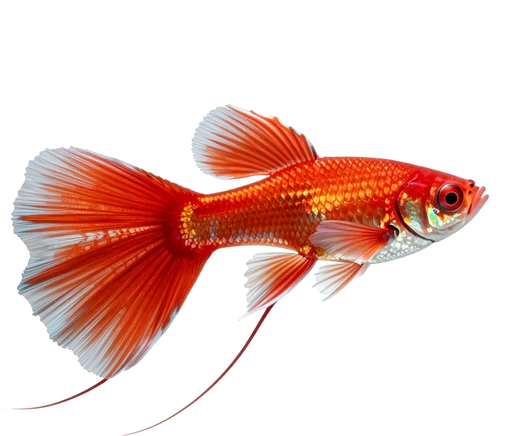
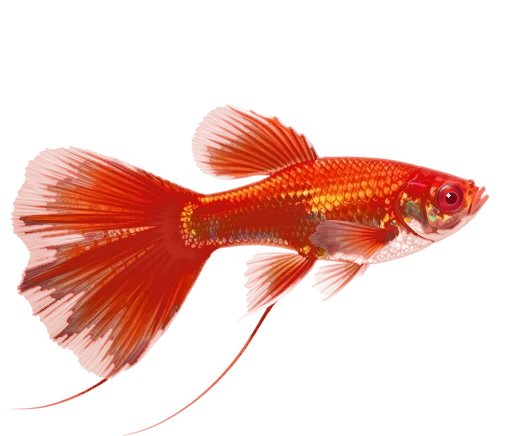
閒置淡出只留任務目標、魚放大 1.2 倍、缸上亮下深、藍草尾／禮服／白子孔雀魚圖文對上（#265、品系對照） (#266)
* 畫面評測第 9 輪：閒置淡出只留任務目標、圖卡換任務先收著、魚放大 1.2 倍、後排魚不像影子、缸上亮下深、通知變窄（#265）

Claude-Session: https://claude.ai/code/session_01KsbS4vLZbfPytVNgNzSz4q

* 孔雀魚品系：禮服改成前銀後黑、白子改成紅眼全紅

- 藍尾禮服四種尾型：前半身銀白、後半身黑色，尾鰭和背鰭改成乾淨的藍
- 全紅白子四種尾型：頭和鰭邊改成紅色、去掉黑色素、眼睛改成寶石紅
- 換色出來的白子（白子紅蛇王等）也把眼睛改成紅色，不跟著主色

Claude-Session: https://claude.ai/code/session_01KsbS4vLZbfPytVNgNzSz4q

* 孔雀魚品系：藍草尾的黑點改到天藍色的尾鰭和背鰭上

Claude-Session: https://claude.ai/code/session_01KsbS4vLZbfPytVNgNzSz4q

---------

diff --git a/src/ui/styles.css b/src/ui/styles.css
@@ -139,7 +139,7 @@ button.todo-item.go:hover { color: var(--accent, #f0c96a); }
   #dock { left: 6px; right: 6px; bottom: calc(env(safe-area-inset-bottom) + 8px); }
   .tools { gap: 2px; padding: 8px 6px 6px; width: 100%; justify-content: space-between; }
   .tool { flex: 1; }
-  .tool .disc { width: 42px; height: 42px; padding: 9px; }
+  .tool .disc { width: 38px; height: 38px; padding: 8px; }
   .tool .lbl { font-size: 11px; letter-spacing: 0.04em; }
 }
 /* 很矮的橫向手機：狀態列、按鈕列都壓扁，留最多空間給水缸 */
@@ -1236,7 +1236,8 @@ body:has(.sheet.full.open) .owner-tip, body:has(.sheet.full.open) .feed-bar { di
 /* 任務卡下面的圖卡：點了缸就收起來，點任務卡再叫出來；窄螢幕最多兩張 */
 .quest-tray.tucked { display: none; }
 .quest-pill.tray-tucked { padding-right: 24px; }
-.quest-pill.tray-tucked::after { content: '▾'; position: absolute; right: 9px; top: 50%; transform: translateY(-50%); color: var(--gold); font-size: 12px; }
+.quest-pill.tray-tucked::after { content: '▾'; position: absolute; right: 9px; top: 50%; transform: translateY(-50%); color: var(--gold); font-size: 12px; animation: tray-nudge 1.4s ease-in-out 3; }
+@keyframes tray-nudge { 50% { transform: translateY(-20%); text-shadow: 0 0 8px rgba(240, 200, 120, 0.9); } }
 @media (max-width: 800px) { .qt-row .qt-card:nth-of-type(3) { display: none; } }
 
 /* 造景時不出魚的事件字幕，免得蓋住「拖到想種的位置」（#254） */
@@ -1244,7 +1245,10 @@ body:has(.sheet.full.open) .owner-tip, body:has(.sheet.full.open) .feed-bar { di
 
 /* 觀賞模式：10 秒沒操作，介面淡到 30%；點兩下缸只留魚 */
 #hud, #dock, .quest-pill, .quest-tray, .tank-label, .dream-holder, .daily-holder, .owner-tip { transition: opacity 0.8s ease; }
-body.idle #hud, body.idle #dock, body.idle .quest-pill, body.idle .quest-tray, body.idle .tank-label, body.idle .dream-holder, body.idle .daily-holder, body.idle .owner-tip { opacity: 0.3; }
+/* 有任務要點的按鈕時（新手前幾天幾乎一直有），只留那顆按鈕不淡，其他照樣淡下去（畫面評測第 9 輪 #265） */
+body.idle:not(.watching) #hud:not(:has(.quest-target)), body.idle:not(.watching) #dock > :not(:has(.quest-target)), body.idle:not(.watching) .quest-pill, body.idle:not(.watching) .quest-tray, body.idle:not(.watching) .tank-label:not(.quest-target), body.idle:not(.watching) .dream-holder, body.idle:not(.watching) .daily-holder, body.idle:not(.watching) .owner-tip { opacity: 0.3; }
+body.idle:not(.watching) #hud:has(.quest-target) > :not(.quest-target):not(:has(.quest-target)), body.idle:not(.watching) #hud:has(.quest-target) > :has(.quest-target) > :not(.quest-target), body.idle:not(.watching) #dock .tools:has(.quest-target) > .tool:not(.quest-target) { opacity: 0.3; transition: opacity 0.8s ease; }
+body.idle:not(.watching) #hud:has(.quest-target), body.idle:not(.watching) #dock .tools:has(.quest-target) { background: transparent; border-color: transparent; box-shadow: none; -webkit-backdrop-filter: none; backdrop-filter: none; transition: background 0.8s ease, border-color 0.8s ease; }
 body.watching #hud, body.watching #dock, body.watching .quest-pill, body.watching .quest-tray, body.watching .tank-label, body.watching .dream-holder, body.watching .daily-holder, body.watching .owner-tip, body.watching #stage .selcard { opacity: 0; pointer-events: none; }
 .watch-exit { position: fixed; z-index: 6; top: calc(env(safe-area-inset-top) + 10px); right: calc(env(safe-area-inset-right) + 12px); width: 40px; height: 40px; border-radius: 50%; display: none; place-items: center; background: rgba(8, 28, 38, 0.55); border: 1px solid var(--line); -webkit-backdrop-filter: blur(6px); backdrop-filter: blur(6px); }
 body.watching .watch-exit { display: grid; animation: rise 0.3s ease-out; }
@@ -1260,3 +1264,9 @@ body.watching .watch-exit { display: grid; animation: rise 0.3s ease-out; }
 .cap-list .cap .lbl { flex: 1; text-align: left; }
 /* 直向的窄手機（會提示轉橫向）：放不下一行時照舊換行，不撐出橫向捲動 */
 @media (max-width: 560px) { #hud { flex-wrap: wrap; row-gap: 6px; } }
+
+/* 橫向手機上通知最多佔 40% 寬、兩行內，不橫跨半個缸（畫面評測第 9 輪 #265） */
+@media (orientation: landscape) and (max-height: 500px) {
+  .toasts { max-width: min(40vw, 380px); }
+  .toast > span { display: -webkit-box; -webkit-box-orient: vertical; -webkit-line-clamp: 2; line-clamp: 2; overflow: hidden; }
+}

diff --git a/src/render/tank-view.ts b/src/render/tank-view.ts
@@ -166,7 +166,10 @@ export interface TankViewEvents {
 }
 
 /** 魚畫得比真實比例大一些（遊戲裡要看得清楚品系花紋）。 */
-const EXAGGERATION: Record<string, number> = { guppy: 1.8, zebrafish: 1.6, cherry_shrimp: 1.8, apisto: 1.5, betta: 1.5, crystal_shrimp: 1.8 };
+// 魚再放大 1.2 倍（畫面評測第 9 輪 #265：孔雀魚只佔畫面寬 6%）；蝦不動，牠們走在沙面上
+const EXAGGERATION: Record<string, number> = { guppy: 2.16, zebrafish: 1.92, cherry_shrimp: 1.8, apisto: 1.8, betta: 1.8, crystal_shrimp: 1.8 };
+/** 後排的魚：淡一點、偏水色、微糊，但還認得出是魚（#265：原本 0.75 透明度加藍色，母孔雀魚遠看像影子）。 */
+const BACK_ALPHA = 0.88;
 /** 景深切換的門檻（有緩衝，避免在兩層之間跳來跳去）。 */
 const BACK_ENTER = 0.3;
 const BACK_LEAVE = 0.4;
@@ -238,7 +241,7 @@ export class TankView {
   private sceneKey = '';
   /** 畫面用到的素材版本：背景載好新圖後，退回程式繪製的魚、水草、場景改畫成精繪圖。 */
   private artVersion = paintedArtVersion();
-  private readonly depthBlur = new BlurFilter({ strength: 2.5, quality: 2 });
+  private readonly depthBlur = new BlurFilter({ strength: 1.6, quality: 2 });
   private quality: QualitySpec = qualitySpec('high', 2);
   private fish = new Map<number, FishView>();
   private plants = new Map<number, PlantView>();
@@ -322,8 +325,8 @@ export class TankView {
     this.causticsLayer.addChild(this.causticsA, this.causticsB, this.causticsMask);
     // 遠層的魚：模糊、偏藍、淡一點（後景模糊）
     this.backFish.filters = [this.depthBlur];
-    this.backFish.alpha = 0.75;
-    this.backFish.tint = 0xa9d4e2;
+    this.backFish.alpha = BACK_ALPHA;
+    this.backFish.tint = 0xc6e4ec;
     this.moteLayer.blendMode = 'add';
     this.rayLayer.blendMode = 'add';
     this.gearGlow.blendMode = 'add';
@@ -655,7 +658,7 @@ export class TankView {
     const fade = [this.gearArtLayer, this.gear, this.gearGlow, this.bubbleLayer, this.rayLayer, this.causticsLayer, this.moteLayer, this.frontFish, this.backFish];
     if (show.step === 'done' && before === 'done') {
       this.setup = null;
-      for (const c of fade) c.alpha = c === this.backFish ? 0.75 : c === this.gearArtLayer ? GEAR_ALPHA : 1;
+      for (const c of fade) c.alpha = c === this.backFish ? BACK_ALPHA : c === this.gearArtLayer ? GEAR_ALPHA : 1;
       this.gearArtLayer.y = this.gear.y = this.gearGlow.y = 0;
       this.front.mask = null;
       this.sandMask.clear();
@@ -757,7 +760,7 @@ export class TankView {
     this.rayLayer.alpha = this.causticsLayer.alpha = L.light;
     this.moteLayer.alpha = L.water * (1 - L.milk);
     this.frontFish.alpha = L.light;
-    this.backFish.alpha = 0.75 * L.light;
+    this.backFish.alpha = BACK_ALPHA * L.light;
   }
 
   /** 生小魚的慶祝特寫：聚光在母魚身上幾秒，金色亮點往上飄。 */

diff --git a/src/render/phenotype-art.ts b/src/render/phenotype-art.ts
@@ -120,8 +120,9 @@ export function recolorPixel(r: number, g: number, b: number, recipe: PhenotypeR
   return hslToRgb(h, Math.min(1, s), Math.min(1, l));
 }
 
-/** 整張圖（RGBA）就地改色。 */
-export function recolorImage(data: Uint8ClampedArray, recipe: PhenotypeRecipe): void {
+/** 整張圖（RGBA）就地改色。給了寬度時，白子的眼睛改成紅色（沒有黑色素，看得到血色）。 */
+export function recolorImage(data: Uint8ClampedArray, recipe: PhenotypeRecipe, width = 0): void {
+  const eye = recipe.albino && width > 0 ? eyePixels(data, width) : [];
   for (let i = 0; i < data.length; i += 4) {
     if (data[i + 3] === 0) continue;
     const [r, g, b] = recolorPixel(data[i] / 255, data[i + 1] / 255, data[i + 2] / 255, recipe);
@@ -129,4 +130,35 @@ export function recolorImage(data: Uint8ClampedArray, recipe: PhenotypeRecipe): 
     data[i + 1] = Math.round(g * 255);
     data[i + 2] = Math.round(b * 255);
   }
+  for (const [i, k] of eye) {
+    data[i] = 110 + 120 * k;
+    data[i + 1] = 8 + 30 * k;
+    data[i + 2] = 22 + 30 * k;
+  }
+}
+
+const lum = (d: Uint8ClampedArray, i: number) => (d[i] * 0.3 + d[i + 1] * 0.59 + d[i + 2] * 0.11) / 255;
+
+/** 魚頭朝右：右邊 20% 最暗的點是瞳孔；回傳瞳孔附近暗像素的位置和亮度（0–1）。 */
+export function eyePixels(data: Uint8ClampedArray, width: number): [number, number][] {
+  const height = data.length / 4 / width;
+  let best = -1, bestL = 2;
+  for (let y = 0; y < height; y++) {
+    for (let x = Math.floor(width * 0.8); x < width; x++) {
+      const i = (y * width + x) * 4;
+      if (data[i + 3] < 200) continue;
+      const l = lum(data, i);
+      if (l < bestL) { bestL = l; best = i / 4; }
+    }
+  }
+  if (best < 0) return [];
+  const cx = best % width, cy = Math.floor(best / width), out: [number, number][] = [];
+  for (let y = Math.max(0, cy - 16); y <= Math.min(height - 1, cy + 16); y++) {
+    for (let x = Math.max(0, cx - 16); x <= Math.min(width - 1, cx + 16); x++) {
+      const i = (y * width + x) * 4;
+      const l = lum(data, i);
+      if ((x - cx) ** 2 + (y - cy) ** 2 <= 256 && data[i + 3] > 0 && l < 90 / 255) out.push([i, l / (90 / 255)]);
+    }
+  }
+  return out;
 }

diff --git a/e2e/flows/tutorial.spec.ts b/e2e/flows/tutorial.spec.ts
@@ -1,5 +1,5 @@
 import { expect, test } from '../fixtures';
-import { aliveCount, closeSheet, dismissGuide, finishDrip, fastForward, gameState, NO_WAIT, questStep, seedRng, setSpeed, sheetButton, startGame, tapTool, tool, watchConsoleErrors } from './helpers';
+import { aliveCount, closeSheet, dismissGuide, finishDrip, fastForward, gameState, NO_WAIT, questStep, seedRng, setSpeed, sheetButton, startGame, tapTool, tool, trayCard, watchConsoleErrors } from './helpers';
 
 // 要快轉很多天：用 1 倍密度省 CPU（無頭瀏覽器用軟體繪圖）
 test.use({ deviceScaleFactor: 1, actionTimeout: 20_000 });
@@ -60,7 +60,7 @@ test('新手任務 1～9：照老闆的引導從新存檔玩得完，教學第 4
 
   // 2 挑魚、對水（#235）：任務卡下面一鍵買，不用開商店：第一個品系「一公兩母」（滴水對水小遊戲）
   await dismissGuide(page);
-  await page.locator('.quest-tray .qt-card', { hasText: '一公兩母' }).click(NO_WAIT);
+  await trayCard(page, '一公兩母');
   await finishDrip(page);
   await closeSheet(page);
   expect(await aliveCount(page)).toBe(3);
@@ -78,7 +78,7 @@ test('新手任務 1～9：照老闆的引導從新存檔玩得完，教學第 4
 
   // 4 種水草（#235）：任務卡下面點一株草
   await dismissGuide(page);
-  await page.locator('.quest-tray .qt-card').first().click(NO_WAIT);
+  await trayCard(page);
   // P4：買了先拿在手上，進造景模式，拖到想種的位置
   await expect(page.locator('.scape-bar')).toBeVisible();
   const coach = page.locator('.scape-coach');
@@ -114,7 +114,7 @@ test('新手任務 1～9：照老闆的引導從新存檔玩得完，教學第 4
 
   // 7 擺石頭（#235）：任務卡下面點火山石，拿在手上進造景模式（拖放另有上面水草那段測過），按「完成」收起
   await dismissGuide(page);
-  await page.locator('.quest-tray .qt-card', { hasText: '火山石' }).click(NO_WAIT);
+  await trayCard(page, '火山石');
   await expect(page.locator('.scape-bar')).toBeVisible();
   expect(await gameState<number>(page, '(s.equipment.hardscape ?? []).length')).toBe(1);
   await page.locator('.scape-bar button', { hasText: '完成' }).click(NO_WAIT);

diff --git a/src/render/phenotype-art.test.ts b/src/render/phenotype-art.test.ts
@@ -1,6 +1,6 @@
 import { describe, expect, it } from 'vitest';
 import type { GuppyPhenotype } from '../sim';
-import { parseRecipeKey, phenotypeRecipe, recipeKey, recolorPixel } from './phenotype-art';
+import { parseRecipeKey, phenotypeRecipe, recipeKey, recolorImage, recolorPixel } from './phenotype-art';
 
 const P = (o: Partial<GuppyPhenotype>): GuppyPhenotype => ({ albino: false, gold: false, tuxedo: false, red: false, snake: false, grass: false, ...o });
 
@@ -42,6 +42,15 @@ describe('依基因上色的公孔雀魚', () => {
     const recipe = phenotypeRecipe(P({ snake: true, red: true, albino: true }));
     const [r, g, b] = recolorPixel(0.05, 0.04, 0.04, recipe);
     expect((Math.max(r, g, b) + Math.min(r, g, b)) / 2).toBeGreaterThan(0.3);
+  });
+
+  it('白子的眼睛改成紅色，不是主色', () => {
+    const w = 20, h = 10, data = new Uint8ClampedArray(w * h * 4).fill(220);
+    const eye = (5 * w + 17) * 4;
+    data.set([10, 10, 12, 255], eye);
+    recolorImage(data, phenotypeRecipe(P({ snake: true, gold: true, albino: true })), w);
+    expect(data[eye]).toBeGreaterThan(100);
+    expect(data[eye + 1]).toBeLessThan(40);
   });
 });
 

diff --git a/e2e/flows/helpers.ts b/e2e/flows/helpers.ts
@@ -122,6 +122,24 @@ export async function tapTool(page: Page, name: string): Promise<void> {
   await btn.click(NO_WAIT);
 }
 
+/** 點任務卡下面的一鍵買圖卡；換任務時圖卡先收著（#265），要先點任務卡展開。 */
+export async function trayCard(page: Page, text?: string): Promise<void> {
+  const card = page.locator('.quest-tray .qt-card', text ? { hasText: text } : {}).first();
+  await card.waitFor({ state: 'attached' });
+  // 換任務的瞬間圖卡會重畫、重新收起來：沒點到就再展開一次
+  for (let i = 0; i < 5; i++) {
+    const tucked = page.locator('.quest-pill.tray-tucked');
+    if (await tucked.count()) await tucked.click(NO_WAIT);
+    try {
+      await card.click({ ...NO_WAIT, timeout: 3000 });
+      return;
+    } catch {
+      /* 再試一次 */
+    }
+  }
+  await card.click(NO_WAIT);
+}
+
 /** 在開著的面板裡點一個按鈕。 */
 export async function sheetButton(page: Page, text: string): Promise<void> {
   await page.locator('.sheet.open button', { hasText: text }).first().click(NO_WAIT);

diff --git a/src/render/scenery.ts b/src/render/scenery.ts
@@ -616,11 +616,19 @@ export function paintVignette(w: number, h: number): Texture {
   g.addColorStop(1, 'rgba(0,15,25,0.6)');
   ctx.fillStyle = g;
   ctx.fillRect(0, 0, cw, ch);
+  // 上亮下深：水面附近透一點光，越往缸底越暗，前後才有距離感（畫面評測第 9 輪 #265）
+  const v = ctx.createLinearGradient(0, 0, 0, ch);
+  v.addColorStop(0, 'rgba(235,250,255,0.07)');
+  v.addColorStop(0.35, 'rgba(235,250,255,0)');
+  v.addColorStop(0.7, 'rgba(0,20,30,0)');
+  v.addColorStop(1, 'rgba(0,20,30,0.2)');
+  ctx.fillStyle = v;
+  ctx.fillRect(0, 0, cw, ch);
   // 前面的玻璃：左上到右下兩道很淡的斜光（畫面評測第 8 輪：缸要有前後景深）
   ctx.save();
   ctx.translate(cw * 0.3, 0);
   ctx.rotate(-0.5);
-  for (const [x, w, a] of [[0, 0.16, 0.06], [0.22, 0.05, 0.05]]) {
+  for (const [x, w, a] of [[0, 0.16, 0.12], [0.22, 0.05, 0.1]]) {
     const band = ctx.createLinearGradient(x * cw, 0, (x + w) * cw, 0);
     band.addColorStop(0, 'rgba(255,255,255,0)');
     band.addColorStop(0.5, `rgba(255,255,255,${a})`);

diff --git a/src/ui/guide.ts b/src/ui/guide.ts
@@ -113,6 +113,9 @@ export class Guide {
     return currentQuest(this.progress)?.quick ?? null;
   }
 
+  /** 上次畫的圖卡種類；refreshTray 會清掉 shownTray，靠這個分辨是不是真的換了任務。 */
+  private trayKind = '';
+
   get trayVisible(): boolean {
     return !this.tray.hidden;
   }
@@ -149,8 +152,13 @@ export class Guide {
     if ((tray ?? '') === this.shownTray) return;
     this.shownTray = tray ?? '';
     this.tray.hidden = !tray || !this.quickTray;
-    this.untuck();
     this.tray.replaceChildren(...(tray && this.quickTray ? [this.quickTray(tray)] : []));
+    // 換任務時圖卡先收著，任務卡上亮個記號，點了才展開（畫面評測第 9 輪 #265：不要每換一個任務就蓋住左邊的缸）
+    // 錢變了重畫（refreshTray）時保持玩家展開或收起的樣子
+    const changed = (tray ?? '') !== this.trayKind;
+    this.trayKind = tray ?? '';
+    if (this.tray.hidden) this.untuck();
+    else if (changed) this.tuckTray();
   }
 
   get pillVisible(): boolean {

diff --git a/src/main.ts b/src/main.ts
@@ -1370,13 +1370,13 @@ async function start(): Promise<void> {
     litTarget = el;
   };
   // 觀賞模式（畫面評測第 8 輪 #252）：10 秒沒操作，介面淡到 30%；點兩下水缸只留魚，右上角一顆小鈕叫回來。
-  // 面板開著、在餵食或造景、有任務要點的按鈕時不淡
+  // 面板開著、在餵食或造景時不淡；有任務要點的按鈕時照樣淡，只留那顆按鈕亮著（styles.css，畫面評測第 9 輪 #265）
   let idleTimer = 0;
   const stayAwake = () => {
     document.body.classList.remove('idle');
     window.clearTimeout(idleTimer);
     idleTimer = window.setTimeout(() => {
-      if (sheet.isOpen || feedingMode || scaping || litTarget) return stayAwake();
+      if (sheet.isOpen || feedingMode || scaping) return stayAwake();
       document.body.classList.add('idle');
       // 第一次淡下去時說一聲怎麼只看魚
       if (!store.getItem('cycle.watchHint')) {

diff --git a/src/render/painted.ts b/src/render/painted.ts
@@ -300,7 +300,7 @@ function derivedTexture(key: string): Texture | null {
   const { canvas, ctx } = makeCanvas(img.width, img.height);
   ctx.drawImage(img, 0, 0);
   const data = ctx.getImageData(0, 0, canvas.width, canvas.height);
-  recolorImage(data.data, recipe);
+  recolorImage(data.data, recipe, canvas.width);
   ctx.putImageData(data, 0, 0);
   const tex = canvasTexture(canvas);
   textures.set(key, tex);
